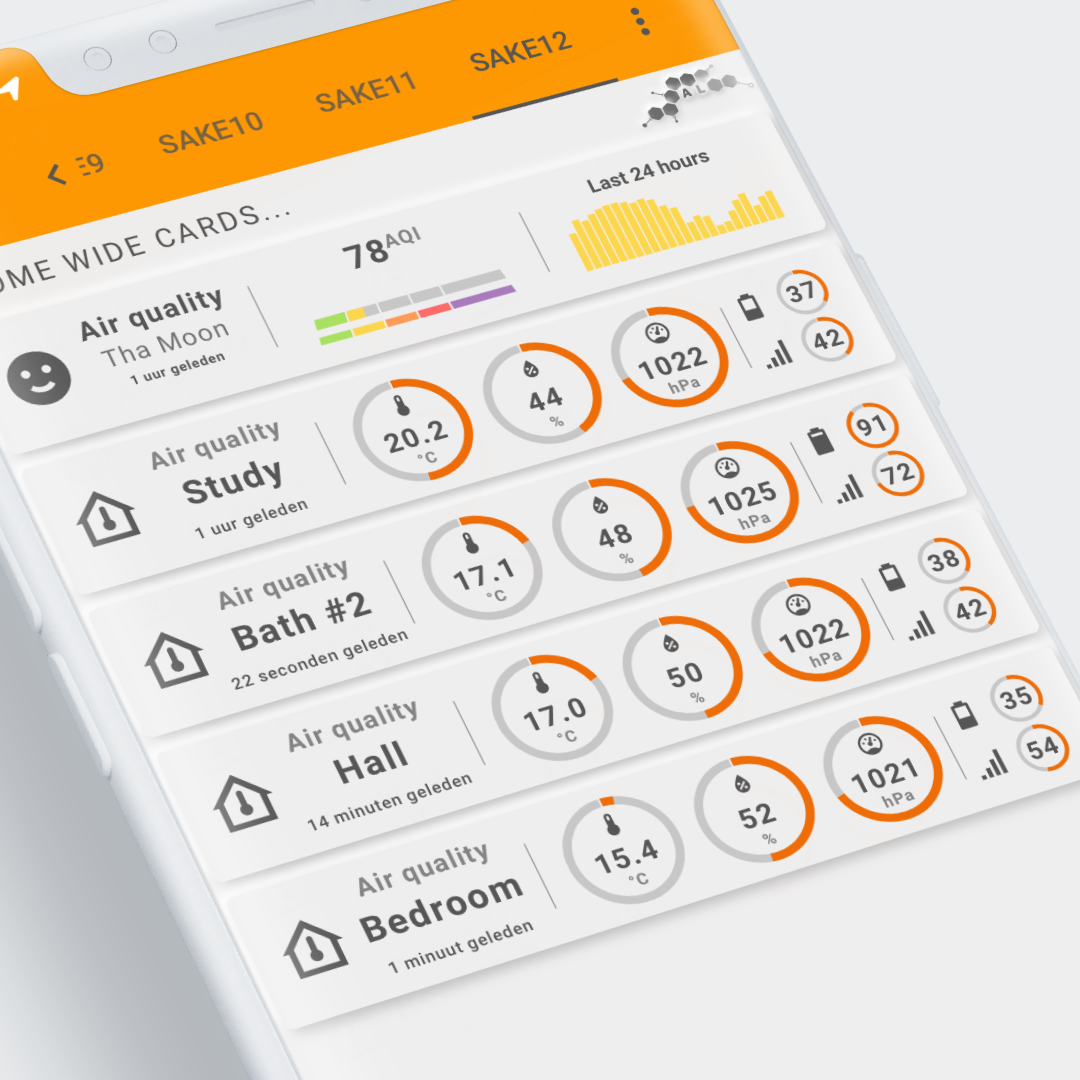
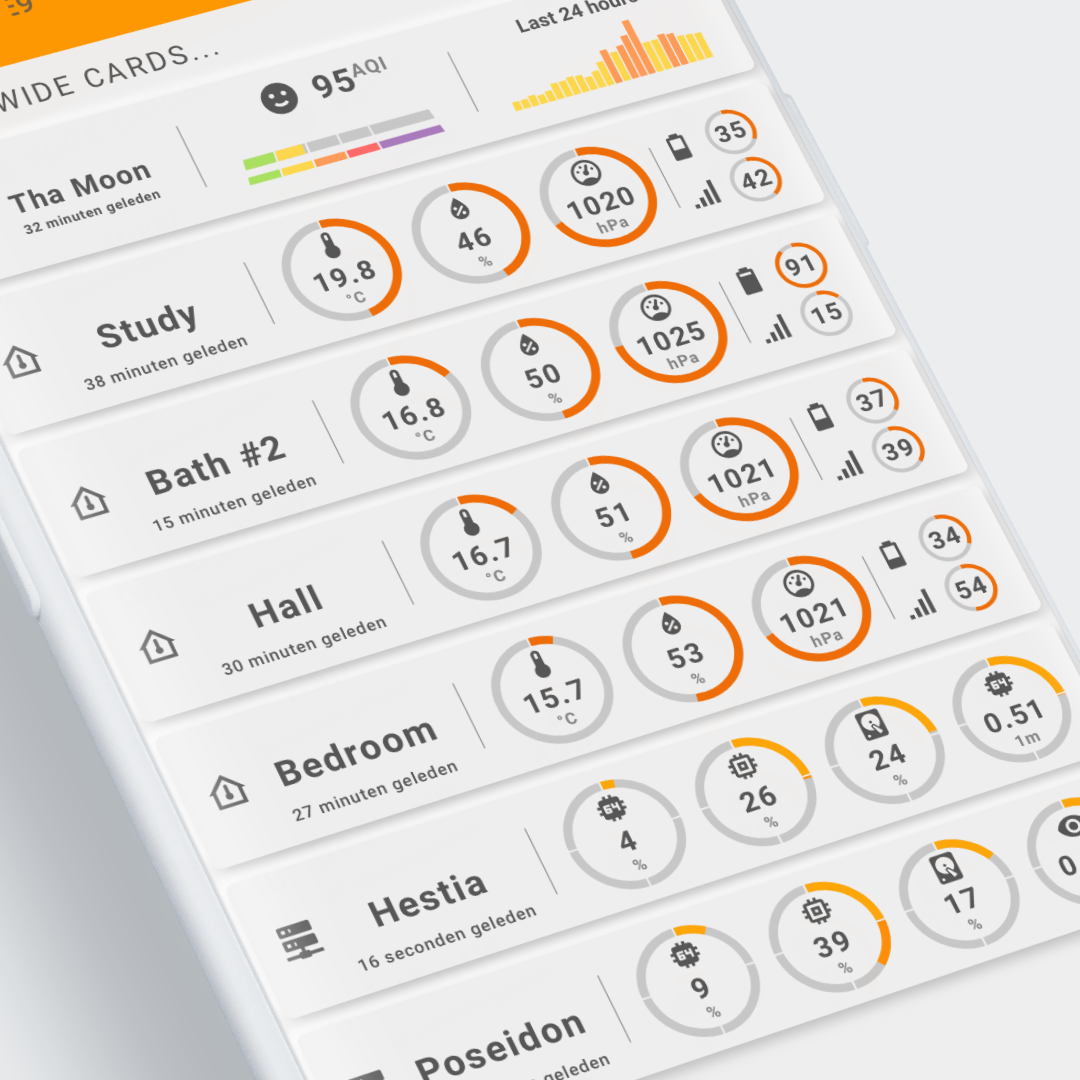
Update example 12 with extended view

diff --git a/docs/examples/example-12.md b/docs/examples/example-12.md
@@ -16,24 +16,99 @@ The information density is pretty high, but still readable on my iPhone.
 
 The first one shows air quality data from AirVisual in a three 'columns' layout: The air quality icon and description in the first 'column', the state with a segmented arc in the second 'column', and finally the history over the last 24 hours in the last 'column'.
 
-**Other cards**
+**Environment cards**
 
-The rest of the cards have all the same format showing data from my Aqara Zigbee environment sensors. Next to the sensor values (temperature, humidity and pressure) data about the battery and linkquality are also displayed.
+The environment cards have all the same format showing data from my Aqara Zigbee environment sensors. Next to the sensor values (temperature, humidity and pressure) data about the battery and linkquality are also displayed.
 
-!!! Note "If you remove the battery and linkquality, there is space for an extra icon/state/segmented arc"
+**Server cards**
 
-This card could also be useful for server monitoring showing CPU, Memory, Disk usage and some other data.
+These show the logical stuff like cpu, memory, disk and system load information.
 
 ##:sak-sak-logo: Data sources
 - First card: [Airvisual integration](https://www.home-assistant.io/integrations/airvisual/)
-- Other cards: Aqara Zigbee sensors with temperature, humidity and pressure data using zigbee2mqtt, ie the [MQTT integration](https://www.home-assistant.io/integrations/mqtt/)
+- Environment cards: Aqara Zigbee sensors with temperature, humidity and pressure data using zigbee2mqtt, ie the [MQTT integration](https://www.home-assistant.io/integrations/mqtt/)
+- Server cards: 
+    - [The System Monitor integration](https://www.home-assistant.io/integrations/systemmonitor/)
+    - [The Glances integration](https://www.home-assistant.io/integrations/glances/)
+    - [The RESTful sensor integration](https://www.home-assistant.io/integrations/sensor.rest/) to get extra sensors from Glances, as the default Glances integration does not give you all the 'load' sensors.
+
+Below the `sensor:` configuration for the System Monitor and extra Glances RESTful sensors:
+
+```yaml title="System Monitor sensors" linenums="1"
+# System Monitor
+# ==============
+# - https://www.home-assistant.io/integrations/systemmonitor/
+  - platform: systemmonitor
+    resources:
+      - type: disk_use_percent
+        arg: /
+      - type: disk_use
+        arg: /
+      - type: disk_free
+        arg: /
+      - type: memory_free
+      - type: memory_use
+      - type: memory_use_percent    
+      - type: load_1m
+      - type: load_5m
+      - type: load_15m
+      - type: processor_use
+      - type: last_boot
+
+```
+```yaml title="Extra Glances sensors" linenums="1"
+# REStful stuff, Glances for instance
+# ===================================
+# - https://www.home-assistant.io/integrations/rest/
+# - https://www.home-assistant.io/integrations/sensor.rest/
+#
+# Get Load sensors from Glances directly. The integration does not give them...
+  - platform: rest
+    resource: http://poseidon.srv.home:61208/api/3/load
+    scan_interval: 60
+    name: glances_poseidon_load
+    value_template: "{{ value_json}}"
+    json_attributes:
+      - min1
+      - min5
+      - min15
+      - cpucore
+
+  - platform: template
+    sensors:
+      glances_poseidon_load_min1:
+        value_template: "{{ state_attr('sensor.glances_poseidon_load', 'min1') }}"
+        friendly_name: "Glances-Poseidon Load 1min"
+        unit_of_measurement: "1m"
+```
+
+!!! Info "The top card uses the system monitor integration, the bottom card the Glances and RESTful sensor integration"
+
 
 ##:sak-sak-logo: How to make it work in your own installation
 
 ###Required Home Assistant integrations
-You only need the AirVisual integration. The other environment sensors can be replaced with a sensor from your own installation.
+**First card**
+
+You only need the AirVisual integration.
 
 - [Airvisual integration](https://www.home-assistant.io/integrations/airvisual/)
+
+ **Environment cards**
+ 
+The environment sensors can be replaced with a sensor from your own installation.
+
+**Server cards**
+
+The visualization is build on the system monitor, glances and rest sensors, so you need these integrations:
+
+####For the `Hestia` server card:
+
+- [The System Monitor integration](https://www.home-assistant.io/integrations/systemmonitor/)
+
+####And for the `Poseidon`server card:
+- [The Glances integration](https://www.home-assistant.io/integrations/glances/)
+- [The RESTful sensor integration](https://www.home-assistant.io/integrations/sensor.rest/) to get extra sensors from Glances, as the default Glances integration does not give you all the 'load' sensors.
 
 ###Required entitiy id changes
 
@@ -41,9 +116,19 @@ You only need the AirVisual integration. The other environment sensors can be re
 
 The `Airvisual` entities should be the same for any installation, so no changes required on that part.
 
-**Other cards**
+**Environment cards**
 
 You can replace the existing `temperature`, `humidity`, `pressure`, `battery` and `linkquality` entities with a version of your own sensor entities. 
+
+**Server cards**
+
+The `System Monitor` entities should be the same for any installation, so no changes required on that part.
+
+The `Glances` integration creates environment dependent entities: the server name is usually added to the integration, and thus entity id's.
+My integration is called `Glances-Poseidon` and thus the entities for instance `sensor.glances_poseidon_cpu_load`. You have to change the entities to your own entity id's.
+
+!!! Info "If you have only 1 server, remove the second server..."
+
 
 ##:sak-sak-logo: Configuration
 
